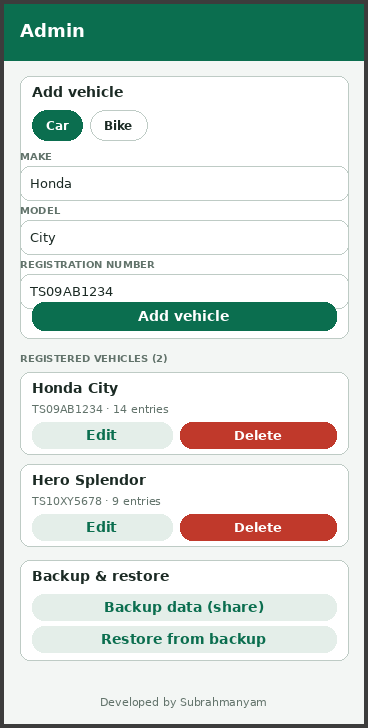
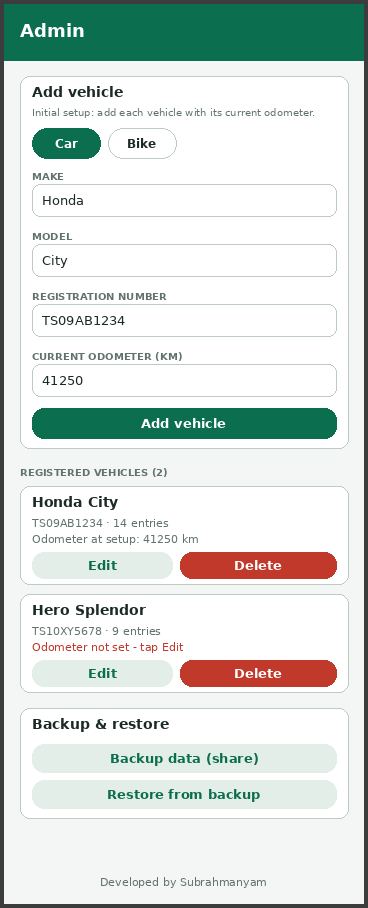
Updated Functionality

diff --git a/app/src/screens.tsx b/app/src/screens.tsx
@@ -10,10 +10,13 @@ const icon = (v: Vehicle) => (v.type === 'car' ? '🚗' : '🏍');
 const Body = ({ children }: any) => <ScrollView keyboardShouldPersistTaps="handled" contentContainerStyle={{ padding: 14 }}>{children}</ScrollView>;
 
 /* ---------------- HOME ---------------- */
-export function Home({ db, vehicle, go, select }: { db: DB; vehicle: Vehicle | null; go: (n: string) => void; select: (id: string) => void }) {
+export function Home({ db, vehicle, go, select }: { db: DB; vehicle: Vehicle | null; go: (n: string, vid?: string) => void; select: (id: string) => void }) {
   const entries = db.entries.filter((e) => vehicle && e.vehicleId === vehicle.id);
   const st = computeStats(entries, todayStr());
   const all = db.entries.reduce((a, e) => a + e.total, 0);
+  const lastOdo = entries.length ? Math.max(...entries.map((e) => e.odo)) : 0;
+  const curOdo = vehicle ? Math.max(vehicle.startOdo ?? 0, lastOdo) : 0;
+  const missing = db.vehicles.filter((v) => v.startOdo == null);
   return (
     <Body>
       {db.vehicles.length === 0 ? (
@@ -24,17 +27,26 @@ export function Home({ db, vehicle, go, select }: { db: DB; vehicle: Vehicle | n
         </Card>
       ) : (
         <>
+          {missing.length > 0 && (
+            <Card style={{ backgroundColor: '#FFF4E5', borderColor: C.accent }}>
+              <Text style={{ fontWeight: '800', color: C.text }}>Initial setup needed</Text>
+              <Text style={{ color: C.sub, marginVertical: 6 }}>Enter the current odometer reading for {missing.map((v) => v.reg).join(', ')} so distance is tracked accurately.</Text>
+              <Btn label={`Set odometer: ${missing[0].reg}`} onPress={() => go('admin', missing[0].id)} />
+            </Card>
+          )}
           <Chips options={db.vehicles.map((v) => ({ key: v.id, label: `${icon(v)} ${v.reg}` }))} value={vehicle?.id ?? null} onChange={select} />
           {vehicle && (
             <Card>
               <Text style={{ fontSize: 18, fontWeight: '800', color: C.text }}>{icon(vehicle)} {vName(vehicle)}</Text>
-              <Text style={{ color: C.sub, marginBottom: 8 }}>{vehicle.reg}</Text>
+              <Text style={{ color: C.sub }}>{vehicle.reg}</Text>
+              <Text style={{ color: C.primaryDark, fontWeight: '700', marginBottom: 8 }}>{vehicle.startOdo != null || entries.length ? `Odometer: ${Math.round(curOdo).toLocaleString('en-IN')} km` : 'Odometer not set'}</Text>
               <View style={{ flexDirection: 'row', flexWrap: 'wrap' }}>
                 <Stat label="Avg mileage" value={st.avgMileage ? num(st.avgMileage) + ' km/l' : '—'} />
                 <Stat label="Last fill" value={st.lastMileage ? num(st.lastMileage) + ' km/l' : '—'} />
                 <Stat label="This month" value={money(st.monthSpend)} />
                 <Stat label="Total spent" value={money(st.totalSpend)} />
               </View>
+              <Btn kind="ghost" label="✎  Edit vehicle / odometer" onPress={() => go('admin', vehicle.id)} style={{ marginTop: 8, paddingVertical: 10 }} />
             </Card>
           )}
           <Btn label="＋  Add fuel entry" onPress={() => go('add')} style={{ marginBottom: 10 }} />
@@ -88,6 +100,7 @@ export function AddFuel({ vehicle, entries, editing, onSave, onCancel }: { vehic
     const prev = [...others].filter((e) => e.date <= date).pop();
     const next = others.find((e) => e.date > date);
     if (prev && o <= prev.odo) return Alert.alert('Odometer too low', `Previous entry (${prev.date}) was ${prev.odo} km. Reading must be higher.`);
+    if (vehicle.startOdo != null && o < vehicle.startOdo) return Alert.alert('Odometer too low', `This vehicle was set up at ${vehicle.startOdo} km. Reading cannot be lower.`);
     if (next && o >= next.odo) return Alert.alert('Odometer too high', `A later entry (${next.date}) is ${next.odo} km. Reading must be lower.`);
     const now = Date.now();
     onSave({
@@ -106,7 +119,7 @@ export function AddFuel({ vehicle, entries, editing, onSave, onCancel }: { vehic
         <Btn kind="ghost" label="Today" onPress={() => setDate(todayStr())} style={{ flex: 1, marginRight: 6, paddingVertical: 8 }} />
         <Btn kind="ghost" label="+ Day" onPress={() => setDate(addDays(validDate(date) ? date : todayStr(), 1))} style={{ flex: 1, paddingVertical: 8 }} />
       </View>
-      <Field label="Odometer (km)" value={odo} onChangeText={setOdo} keyboardType="decimal-pad" hint={last ? `Last reading: ${last.odo} km` : 'First entry for this vehicle'} />
+      <Field label="Odometer (km)" value={odo} onChangeText={setOdo} keyboardType="decimal-pad" hint={last ? `Last reading: ${last.odo} km` : vehicle.startOdo != null ? `Odometer at setup: ${vehicle.startOdo} km` : 'First entry for this vehicle'} />
       <Text style={s.label}>Fuel type</Text>
       <Chips options={FUEL_TYPES.map((f) => ({ key: f, label: f }))} value={fuelType} onChange={(k) => setFuelType(k as FuelType)} />
       <Field label={`Quantity (${unit})`} value={qty} onChangeText={onQty} keyboardType="decimal-pad" />
@@ -196,24 +209,31 @@ export function Stats({ vehicle, entries }: { vehicle: Vehicle; entries: FuelEnt
 }
 
 /* ---------------- ADMIN ---------------- */
-export function Admin({ db, onSaveVehicle, onDeleteVehicle, onRestore }: { db: DB; onSaveVehicle: (v: Vehicle) => void; onDeleteVehicle: (id: string) => void; onRestore: (d: DB) => void }) {
-  const [editing, setEditing] = useState<Vehicle | null>(null);
-  const [type, setType] = useState<'car' | 'bike'>('car');
-  const [make, setMake] = useState('');
-  const [model, setModel] = useState('');
-  const [reg, setReg] = useState('');
+export function Admin({ db, initialEditId, onSaveVehicle, onDeleteVehicle, onRestore }: { db: DB; initialEditId?: string | null; onSaveVehicle: (v: Vehicle) => void; onDeleteVehicle: (id: string) => void; onRestore: (d: DB) => void }) {
+  const init = db.vehicles.find((v) => v.id === initialEditId) ?? null;
+  const [editing, setEditing] = useState<Vehicle | null>(init);
+  const [type, setType] = useState<'car' | 'bike'>(init?.type ?? 'car');
+  const [make, setMake] = useState(init?.make ?? '');
+  const [model, setModel] = useState(init?.model ?? '');
+  const [reg, setReg] = useState(init?.reg ?? '');
+  const [odoStr, setOdoStr] = useState(init?.startOdo != null ? String(init.startOdo) : '');
   const [restoreText, setRestoreText] = useState('');
   const [showRestore, setShowRestore] = useState(false);
 
-  const reset = () => { setEditing(null); setType('car'); setMake(''); setModel(''); setReg(''); };
-  const startEdit = (v: Vehicle) => { setEditing(v); setType(v.type); setMake(v.make); setModel(v.model); setReg(v.reg); };
+  const reset = () => { setEditing(null); setType('car'); setMake(''); setModel(''); setReg(''); setOdoStr(''); };
+  const startEdit = (v: Vehicle) => { setEditing(v); setType(v.type); setMake(v.make); setModel(v.model); setReg(v.reg); setOdoStr(v.startOdo != null ? String(v.startOdo) : ''); };
 
   const save = () => {
     const r = reg.trim().toUpperCase().replace(/\s+/g, ' ');
     if (!make.trim() || !model.trim() || !r) return Alert.alert('Missing details', 'Make, model and registration number are required.');
     if (db.vehicles.some((v) => v.reg === r && v.id !== editing?.id)) return Alert.alert('Already added', 'A vehicle with this registration number exists.');
+    const o = parseFloat(odoStr);
+    if (odoStr.trim() === '' || !(o >= 0)) return Alert.alert('Current odometer needed', 'Enter the odometer reading shown on the vehicle today (km).');
+    const mine = db.entries.filter((e) => e.vehicleId === editing?.id);
+    const minEntry = mine.length ? Math.min(...mine.map((e) => e.odo)) : null;
+    if (minEntry !== null && o > minEntry) return Alert.alert('Odometer too high', `Existing fuel entries start at ${minEntry} km. The setup reading cannot be above that.`);
     const now = Date.now();
-    onSaveVehicle({ id: editing?.id ?? uid(), type, make: make.trim(), model: model.trim(), reg: r, createdAt: editing?.createdAt ?? now, updatedAt: now });
+    onSaveVehicle({ id: editing?.id ?? uid(), type, make: make.trim(), model: model.trim(), reg: r, startOdo: o, startOdoDate: editing && editing.startOdo === o && editing.startOdoDate ? editing.startOdoDate : todayStr(), createdAt: editing?.createdAt ?? now, updatedAt: now });
     reset();
   };
 
@@ -232,10 +252,12 @@ export function Admin({ db, onSaveVehicle, onDeleteVehicle, onRestore }: { db: D
     <Body>
       <Card>
         <Text style={{ fontWeight: '800', color: C.text, marginBottom: 8 }}>{editing ? 'Edit vehicle' : 'Add vehicle'}</Text>
+        {!editing && db.vehicles.length === 0 && <Text style={s.hint}>Initial setup: add each vehicle with its current odometer reading.</Text>}
         <Chips options={[{ key: 'car', label: '🚗 Car' }, { key: 'bike', label: '🏍 Bike' }]} value={type} onChange={(k) => setType(k as any)} />
         <Field label="Make" value={make} onChangeText={setMake} placeholder="e.g. Honda" />
         <Field label="Model" value={model} onChangeText={setModel} placeholder="e.g. City / Activa" />
         <Field label="Registration number" value={reg} onChangeText={setReg} placeholder="e.g. TS09AB1234" autoCap="characters" />
+        <Field label="Current odometer (km)" value={odoStr} onChangeText={setOdoStr} keyboardType="decimal-pad" placeholder="e.g. 41250" hint="Reading on the dashboard today. Fuel entries must be at or above this." />
         <Btn label={editing ? 'Update vehicle' : 'Add vehicle'} onPress={save} style={{ marginBottom: editing ? 8 : 0 }} />
         {editing && <Btn kind="ghost" label="Cancel edit" onPress={reset} />}
       </Card>
@@ -245,6 +267,7 @@ export function Admin({ db, onSaveVehicle, onDeleteVehicle, onRestore }: { db: D
         <Card key={v.id}>
           <Text style={{ fontWeight: '800', color: C.text, fontSize: 16 }}>{icon(v)} {vName(v)}</Text>
           <Text style={{ color: C.sub, marginBottom: 8 }}>{v.reg} · {db.entries.filter((e) => e.vehicleId === v.id).length} entries</Text>
+          <Text style={{ color: v.startOdo != null ? C.sub : C.danger, marginBottom: 8, marginTop: -6 }}>{v.startOdo != null ? `Odometer at setup: ${v.startOdo} km (${v.startOdoDate ?? ''})` : '⚠ Odometer not set — tap Edit'}</Text>
           <View style={{ flexDirection: 'row' }}>
             <Btn kind="ghost" label="Edit" onPress={() => startEdit(v)} style={{ flex: 1, marginRight: 8, paddingVertical: 10 }} />
             <Btn kind="danger" label="Delete" onPress={() => confirmDelete(v)} style={{ flex: 1, paddingVertical: 10 }} />

diff --git a/app/App.tsx b/app/App.tsx
@@ -14,6 +14,7 @@ export default function App() {
   const [ready, setReady] = useState(false);
   const [screen, setScreen] = useState<Screen>('home');
   const [editing, setEditing] = useState<FuelEntry | null>(null);
+  const [editVid, setEditVid] = useState<string | null>(null);
 
   useEffect(() => { loadDB().then((d) => { setDb(d); setReady(true); }); }, []);
 
@@ -22,6 +23,7 @@ export default function App() {
   const back = useCallback(() => {
     if (screen === 'home') return false;
     setEditing(null);
+    setEditVid(null);
     setScreen('home');
     return true;
   }, [screen]);
@@ -37,7 +39,7 @@ export default function App() {
   const entries = vehicle ? db.entries.filter((e) => e.vehicleId === vehicle.id) : [];
   const needVehicle = (screen === 'add' || screen === 'history' || screen === 'stats') && !vehicle;
 
-  const go = (n: string) => { setEditing(null); setScreen((needVehicle || (!vehicle && n !== 'admin' && n !== 'home')) ? 'admin' : (n as Screen)); };
+  const go = (n: string, vid?: string) => { setEditing(null); setEditVid(vid ?? null); setScreen((needVehicle || (!vehicle && n !== 'admin' && n !== 'home')) ? 'admin' : (n as Screen)); };
 
   const saveEntry = (e: FuelEntry) => {
     const exists = db.entries.some((x) => x.id === e.id);
@@ -65,7 +67,7 @@ export default function App() {
         {screen === 'add' && vehicle && <AddFuel key={editing?.id ?? 'new'} vehicle={vehicle} entries={entries} editing={editing} onSave={saveEntry} onCancel={back} />}
         {screen === 'history' && vehicle && <History vehicle={vehicle} entries={entries} onEdit={(e) => { setEditing(e); setScreen('add'); }} onDelete={(id) => commit({ ...db, entries: db.entries.filter((x) => x.id !== id) })} />}
         {screen === 'stats' && vehicle && <Stats vehicle={vehicle} entries={entries} />}
-        {screen === 'admin' && <Admin db={db} onSaveVehicle={saveVehicle} onDeleteVehicle={deleteVehicle} onRestore={(d) => commit(d)} />}
+        {screen === 'admin' && <Admin key={editVid ?? 'x'} initialEditId={editVid} db={db} onSaveVehicle={saveVehicle} onDeleteVehicle={deleteVehicle} onRestore={(d) => commit(d)} />}
       </View>
     </View>
   );

diff --git a/app/src/types.ts b/app/src/types.ts
@@ -8,6 +8,8 @@ export interface Vehicle {
   make: string;
   model: string;
   reg: string;
+  startOdo?: number;      // odometer reading entered at initial setup (km)
+  startOdoDate?: string;  // date the setup reading was recorded
   createdAt: number;
   updatedAt: number;
 }
